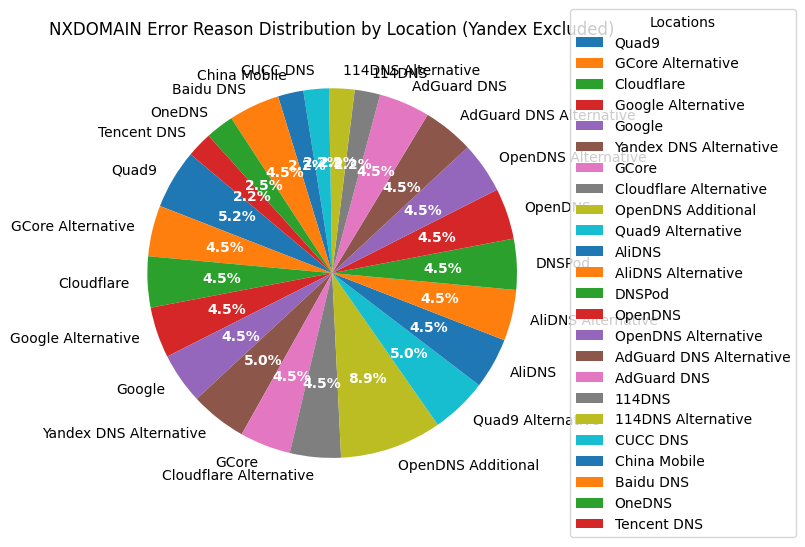
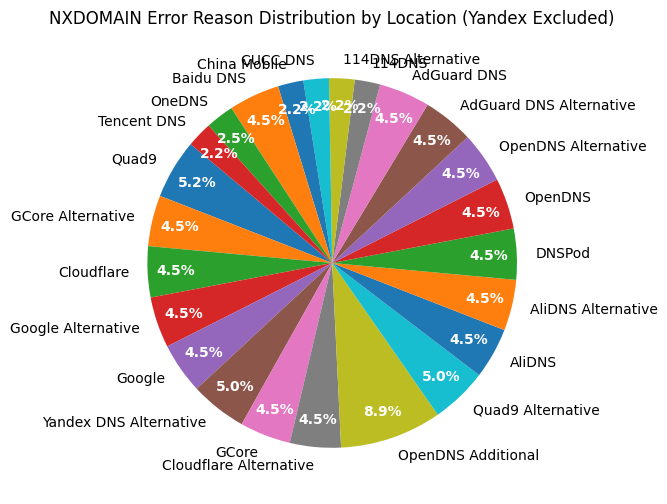
Update the graph

diff --git a/src/Database/DNSPoisoningPlot.py b/src/Database/DNSPoisoningPlot.py
@@ -91,12 +91,11 @@ def distribution_NXDomain():
       location = get_server_location(server)
       location_counts[location] += 1
 
-  plt.figure(figsize=(12, 6))
-  wedges, texts, autotexts = plt.pie(location_counts.values(), labels=location_counts.keys(), autopct='%1.1f%%', startangle=140)
+  plt.figure(figsize=(15, 6))
+  texts, autotexts = plt.pie(location_counts.values(), labels=location_counts.keys(), autopct='%1.1f%%', startangle=140, pctdistance=0.85)
   plt.setp(autotexts, size=10, weight="bold", color="white")
   plt.setp(texts, size=10)
   plt.title('NXDOMAIN Error Reason Distribution by Location')
-  plt.legend(wedges, location_counts.keys(), title="Locations", loc="center left", bbox_to_anchor=(1, 0, 0.5, 1))
   plt.savefig('NXDOMAIN_Distribution_by_Location.png', bbox_inches='tight')
   plt.close()
 
@@ -114,12 +113,11 @@ def distribution_NXDomain_exclude_yandex():
       if location != 'Yandex DNS' and location != 'Yandex DNS (Additional)':
         location_counts[location] += 1
 
-  plt.figure(figsize=(12, 6))
-  wedges, texts, autotexts = plt.pie(location_counts.values(), labels=location_counts.keys(), autopct='%1.1f%%', startangle=140)
+  plt.figure(figsize=(15, 6))
+  texts, autotexts = plt.pie(location_counts.values(), labels=location_counts.keys(), autopct='%1.1f%%', startangle=140, pctdistance=0.85)
   plt.setp(autotexts, size=10, weight="bold", color="white")
   plt.setp(texts, size=10)
   plt.title('NXDOMAIN Error Reason Distribution by Location (Yandex Excluded)')
-  plt.legend(wedges, location_counts.keys(), title="Locations", loc="center left", bbox_to_anchor=(1, 0, 0.5, 1))
   plt.savefig('NXDOMAIN_Distribution_by_Location_Yandex_excluded.png', bbox_inches='tight')
   plt.close()
 
